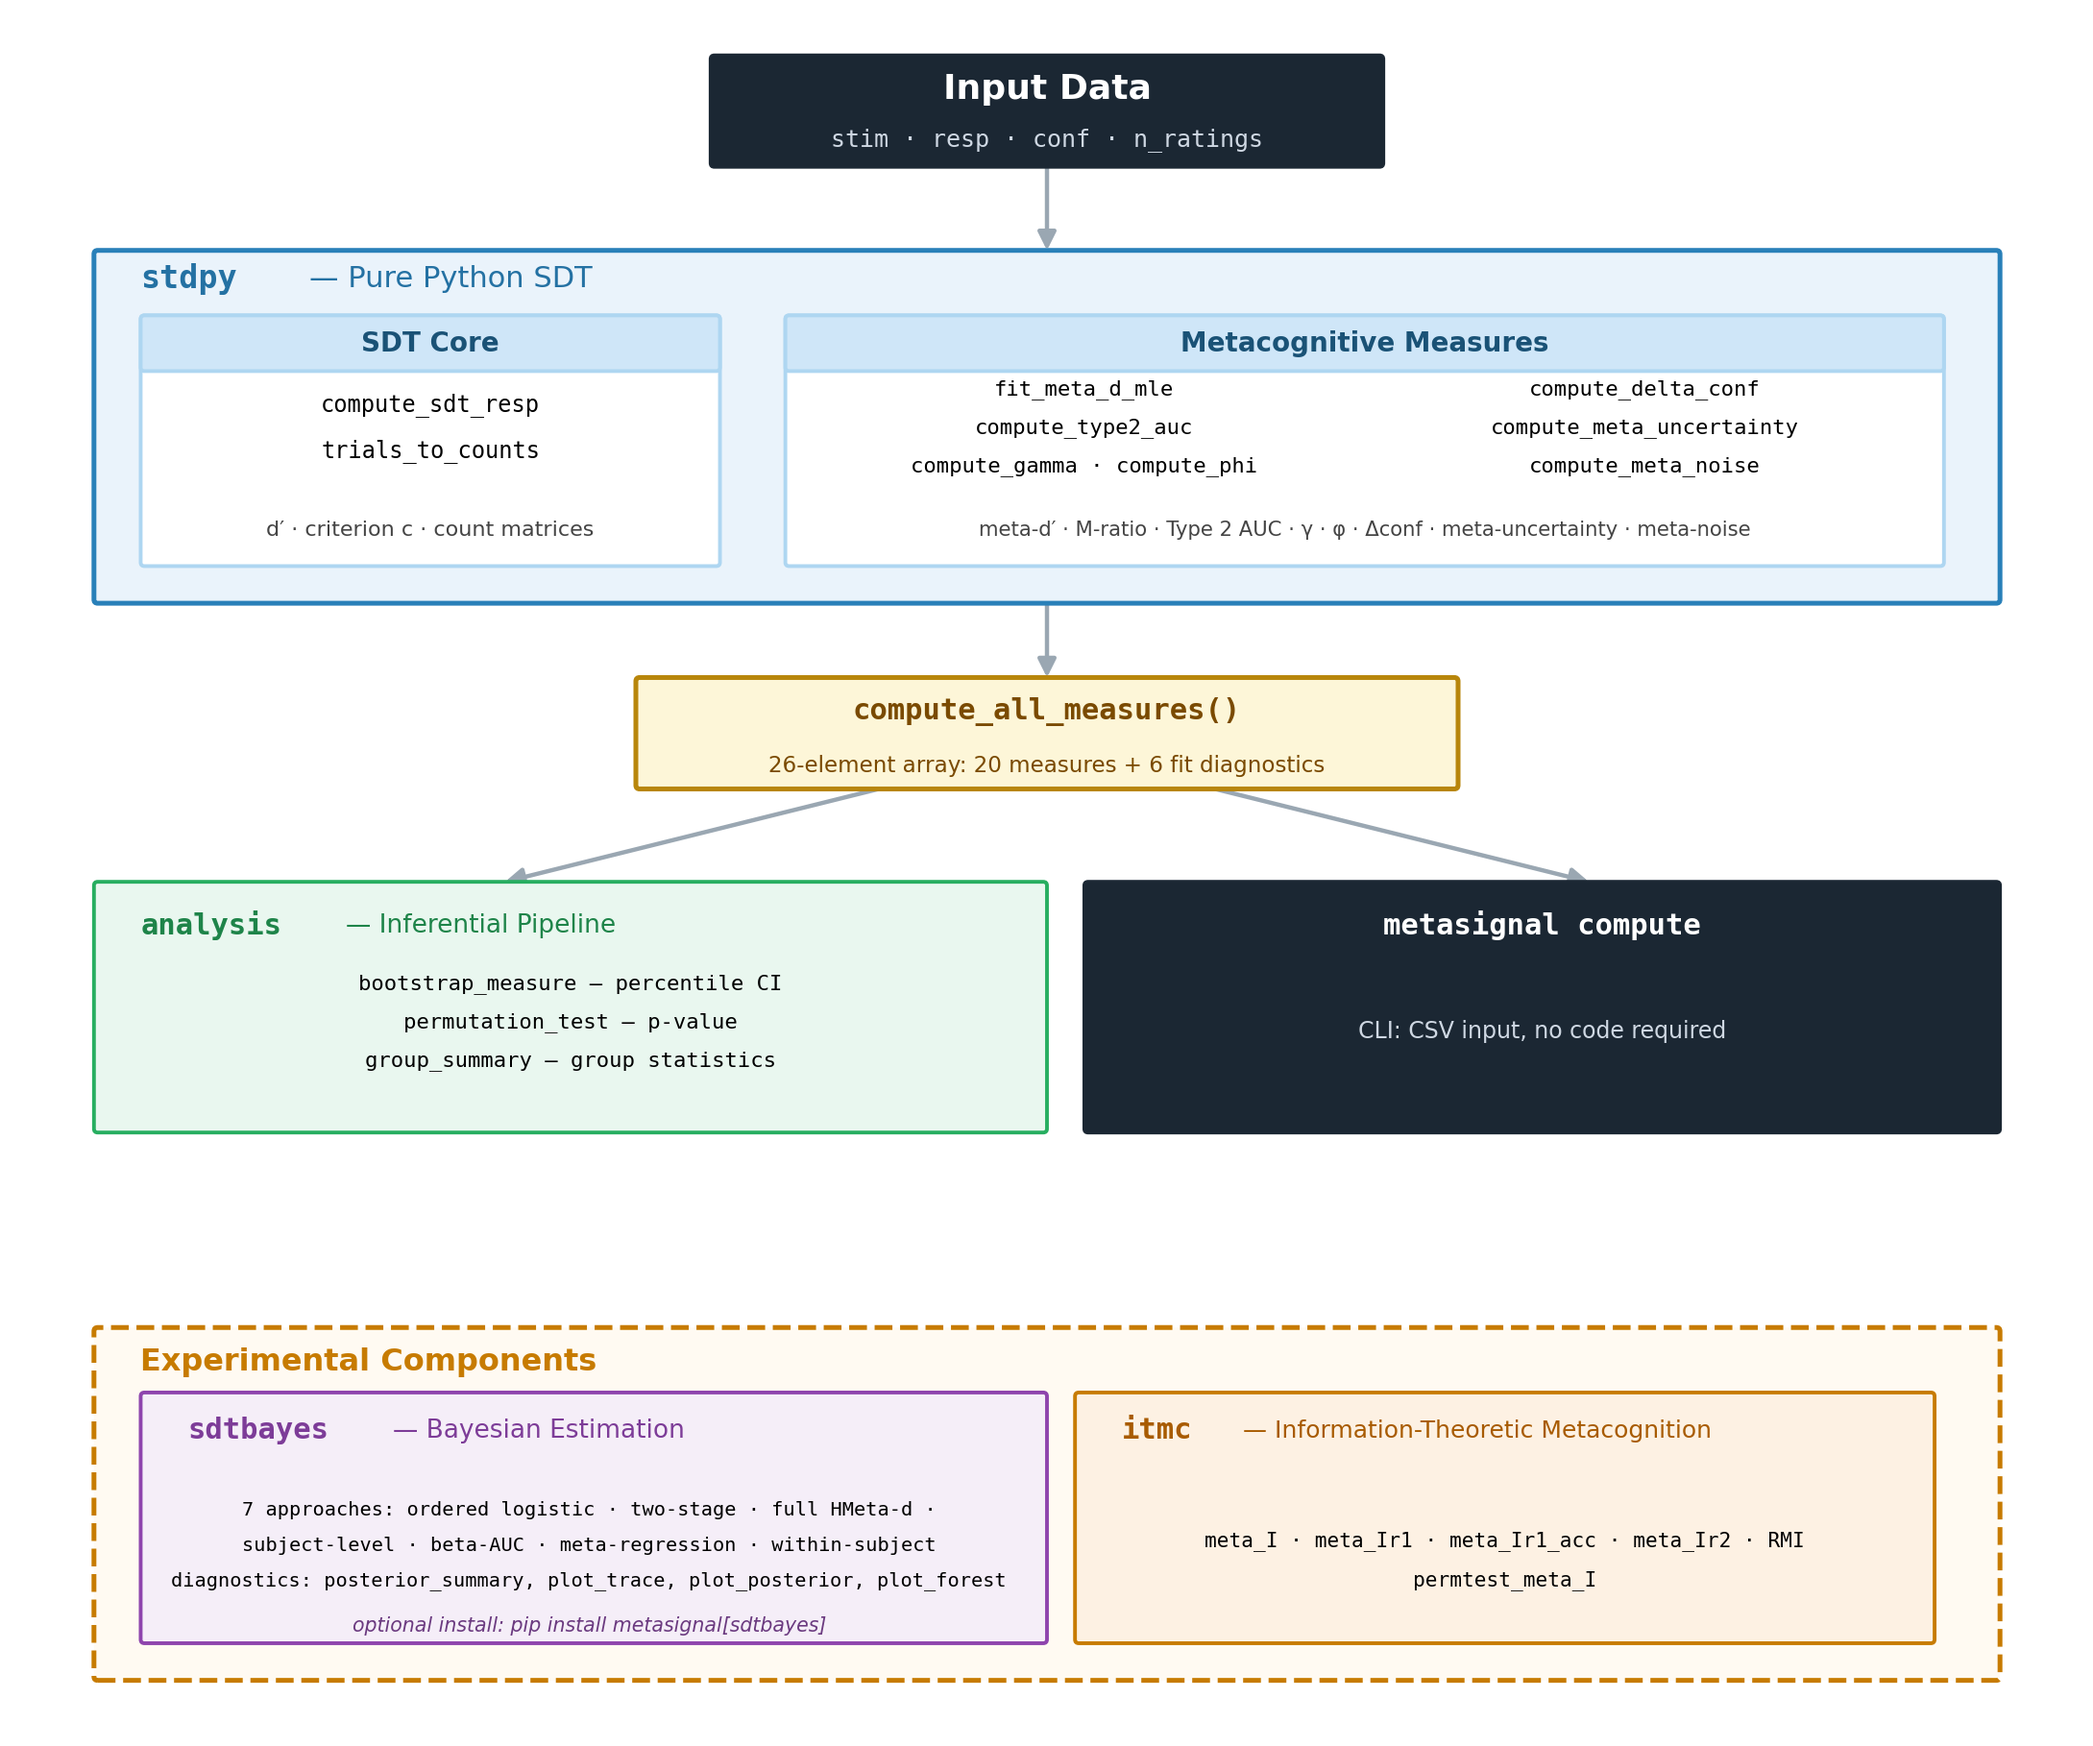
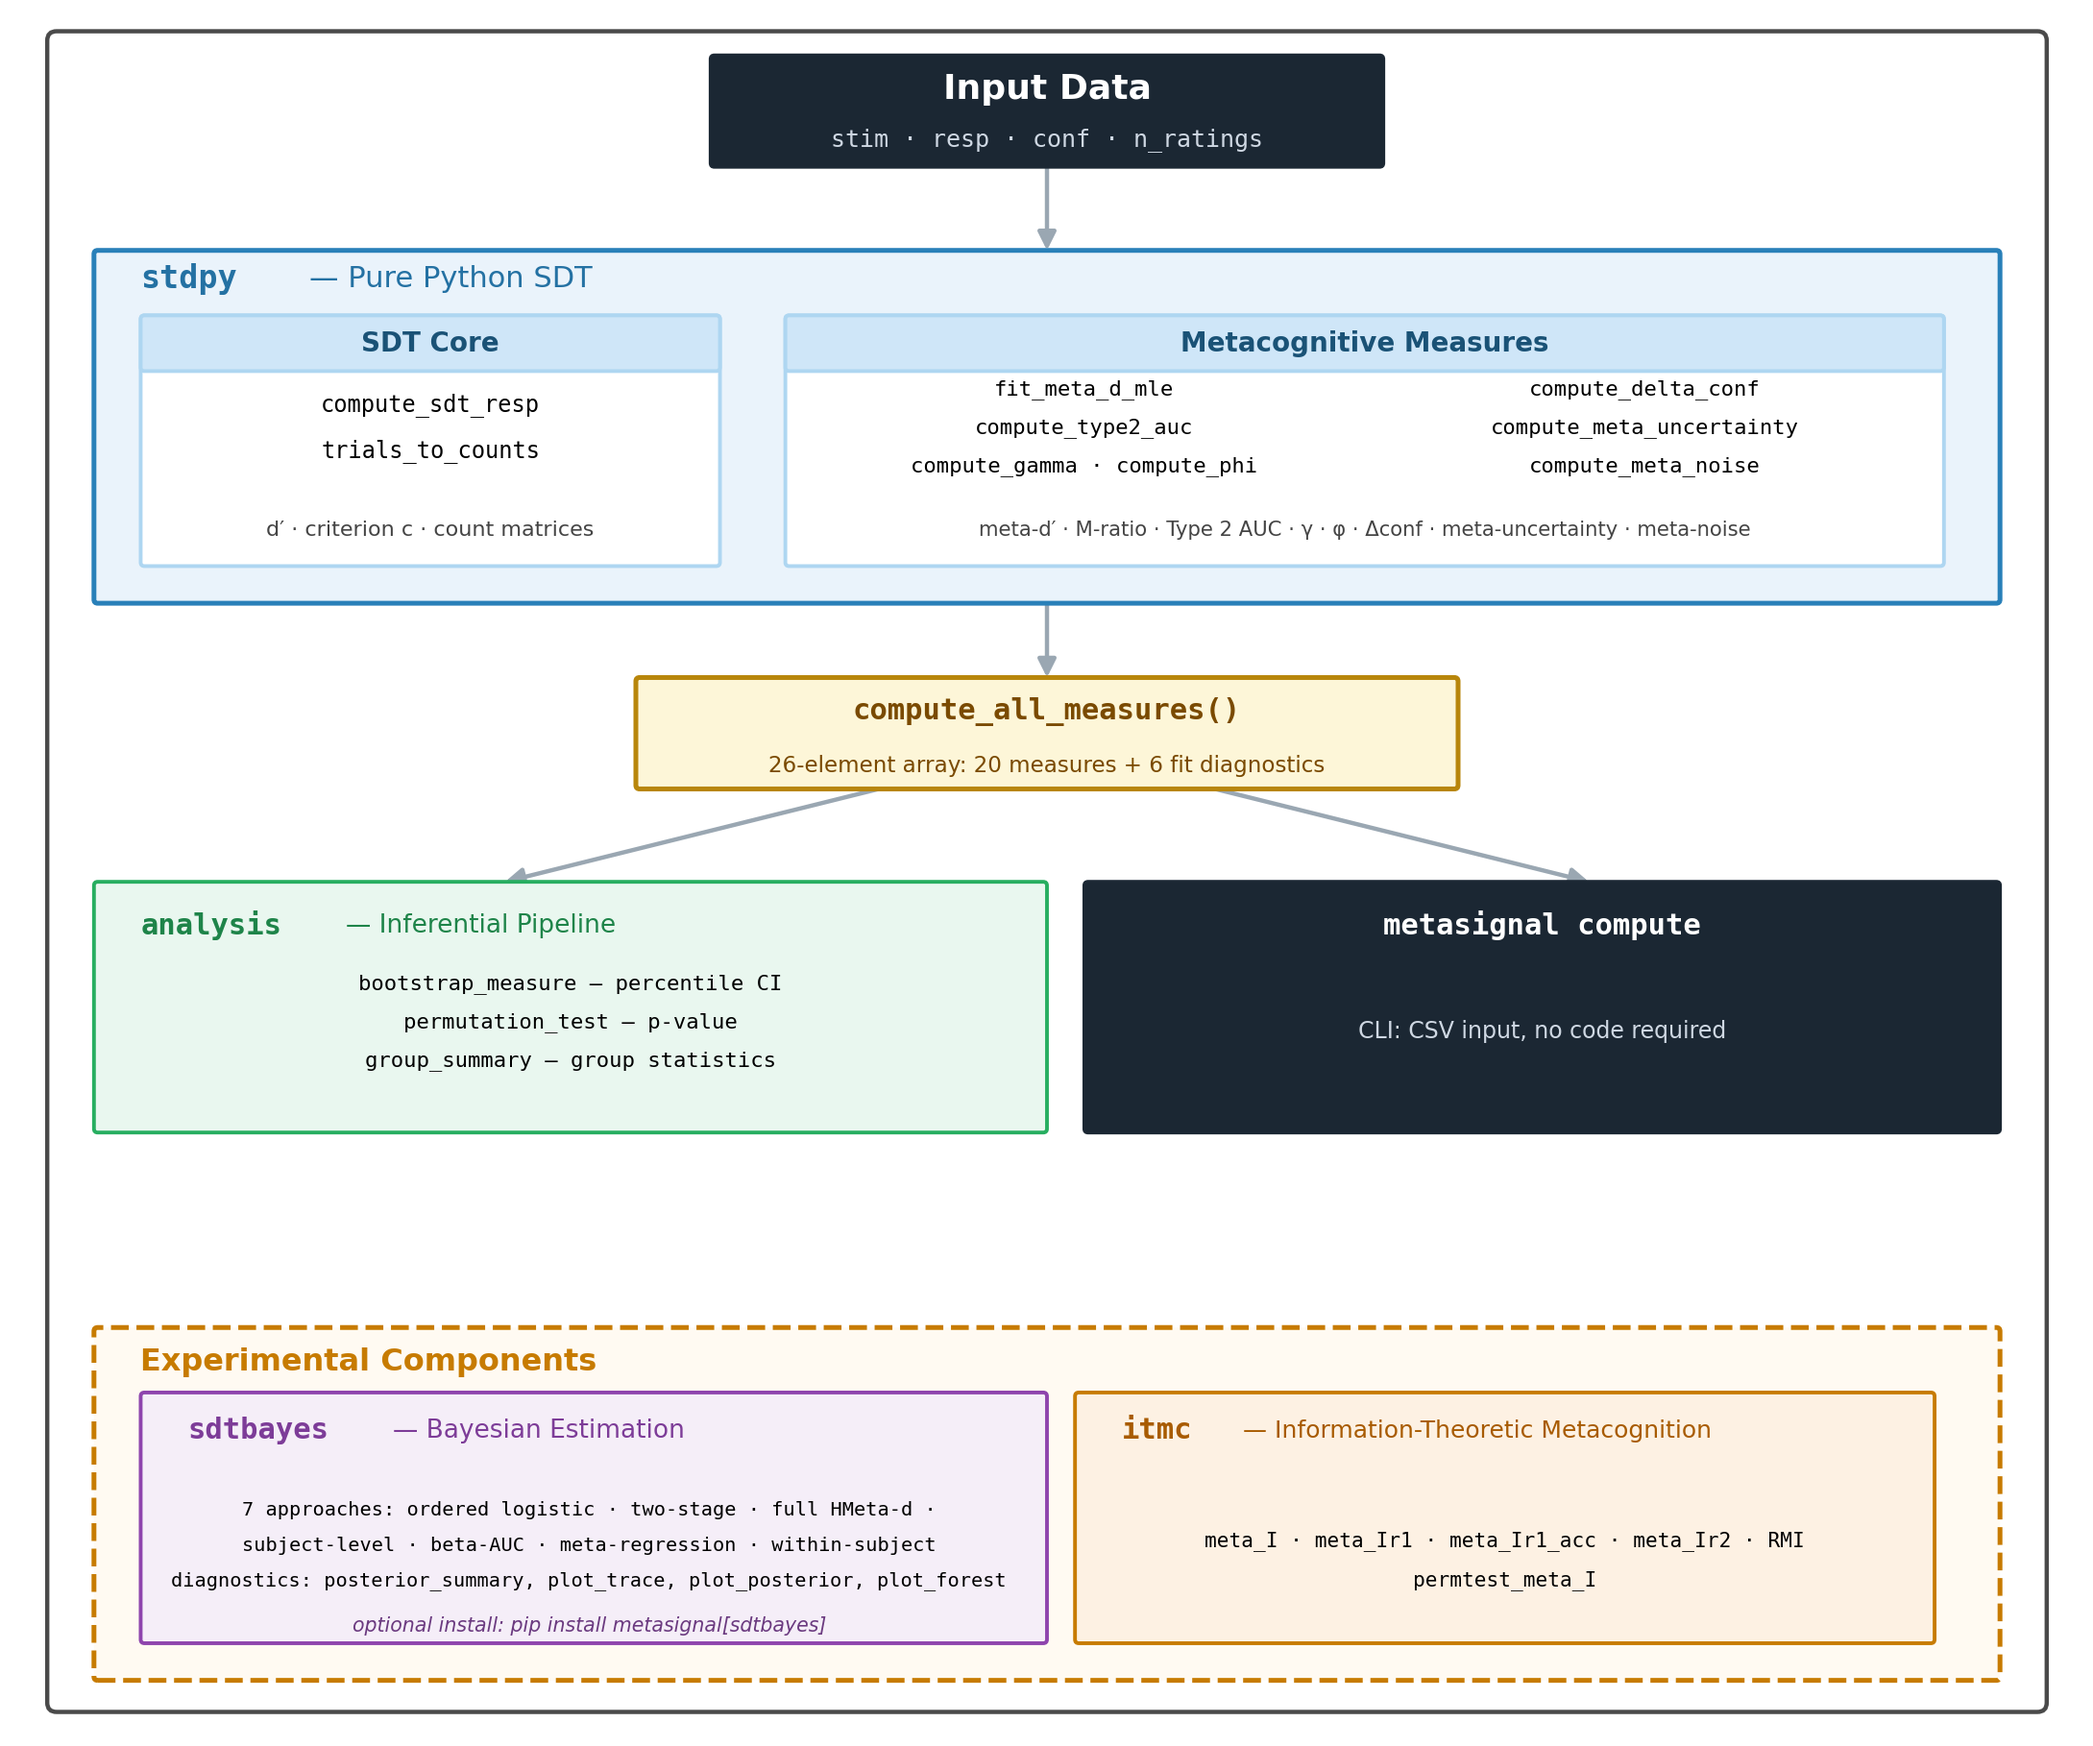
Add enclosing frame around the architecture figure

diff --git a/scripts/make_structure_figure.py b/scripts/make_structure_figure.py
@@ -69,6 +69,9 @@ ax.set_xlim(0, 11)
 ax.set_ylim(0, 9.2)
 ax.axis("off")
 
+# --- Enclosing frame around the whole diagram ---
+box(ax, (0.15, 0.08), 10.7, 9.05, "none", "#4a4a4a", lw=1.6, radius=0.05)
+
 # --- Input Data ---
 box(ax, (3.7, 8.4), 3.6, 0.6, DARK, DARK)
 ax.text(
